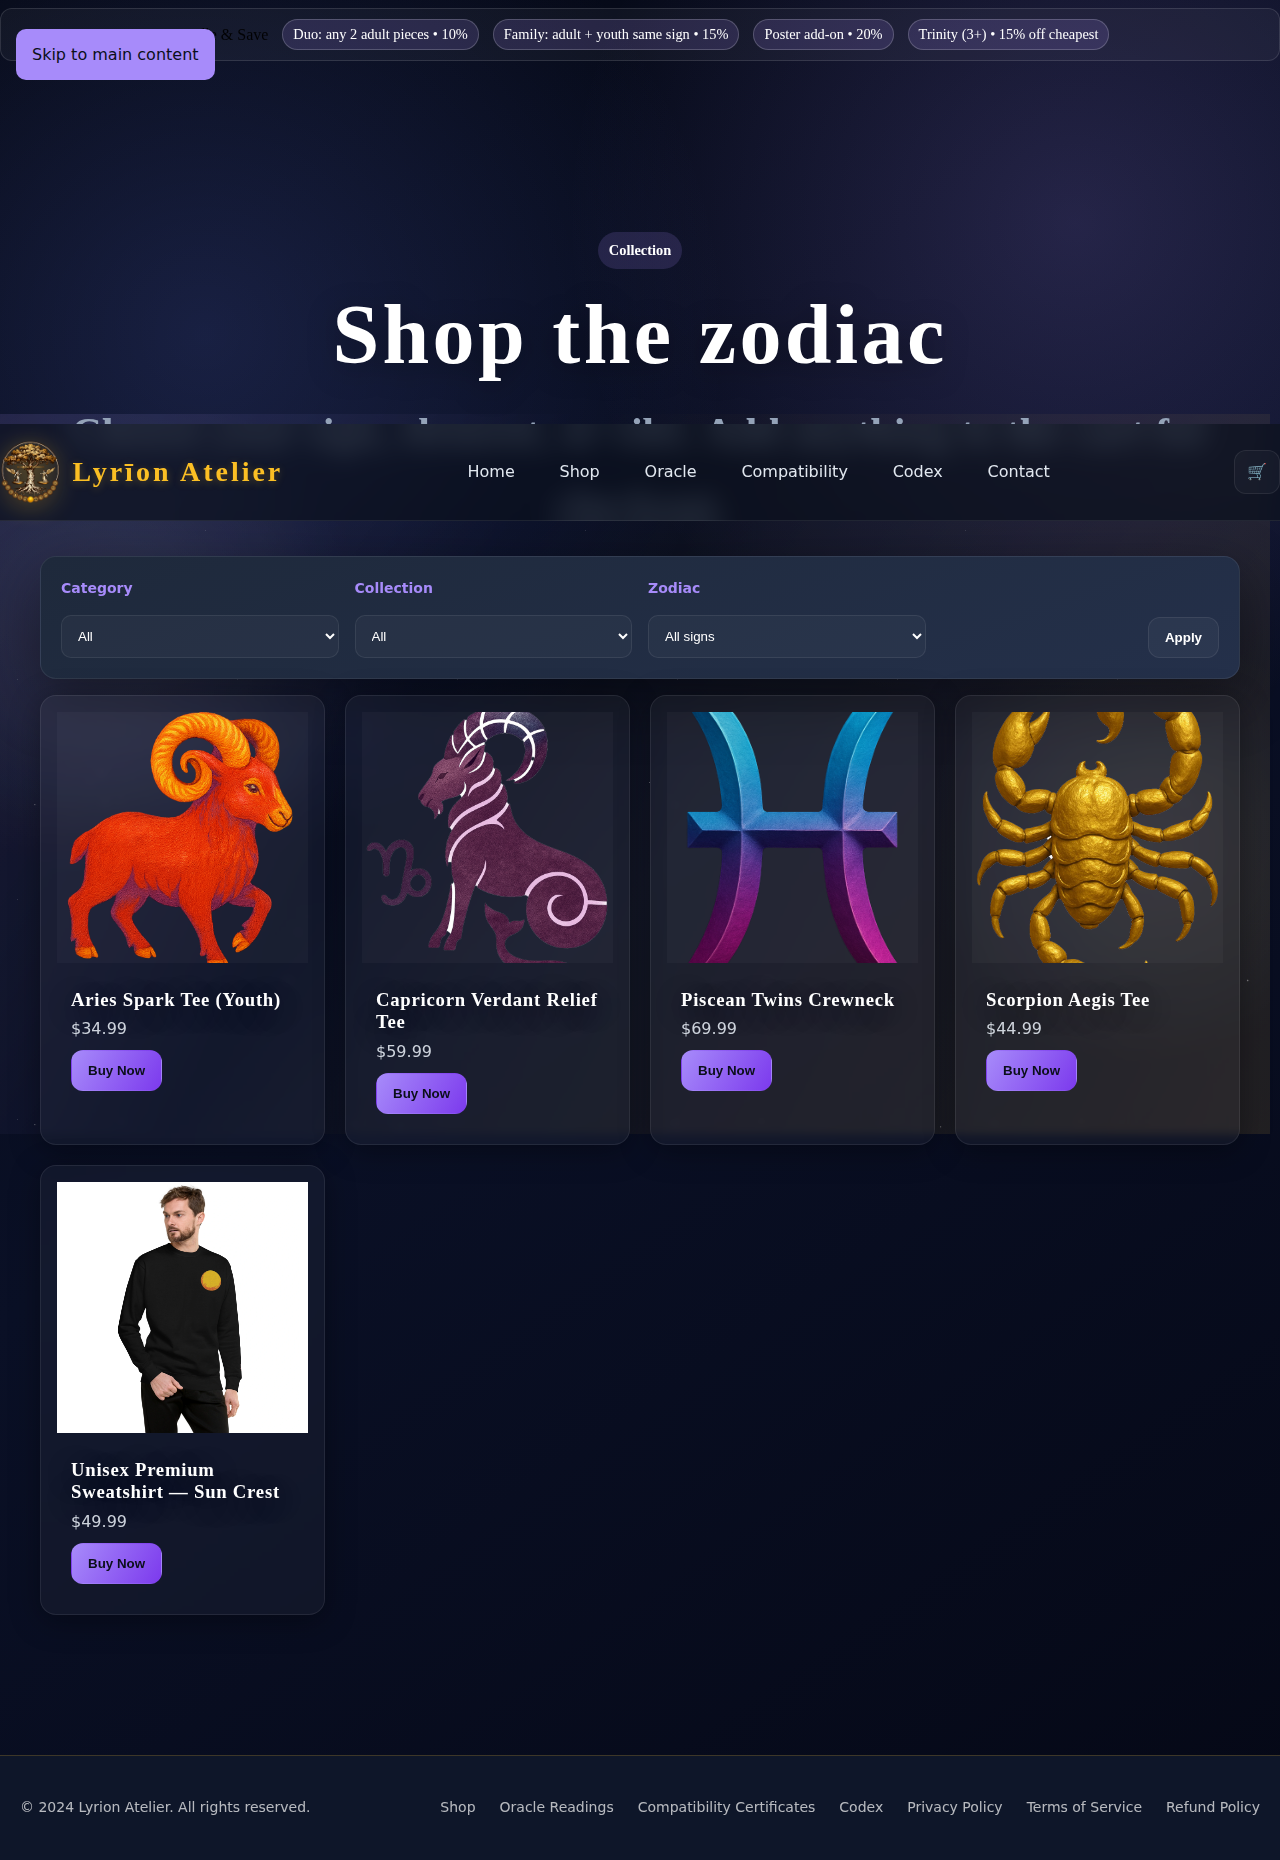
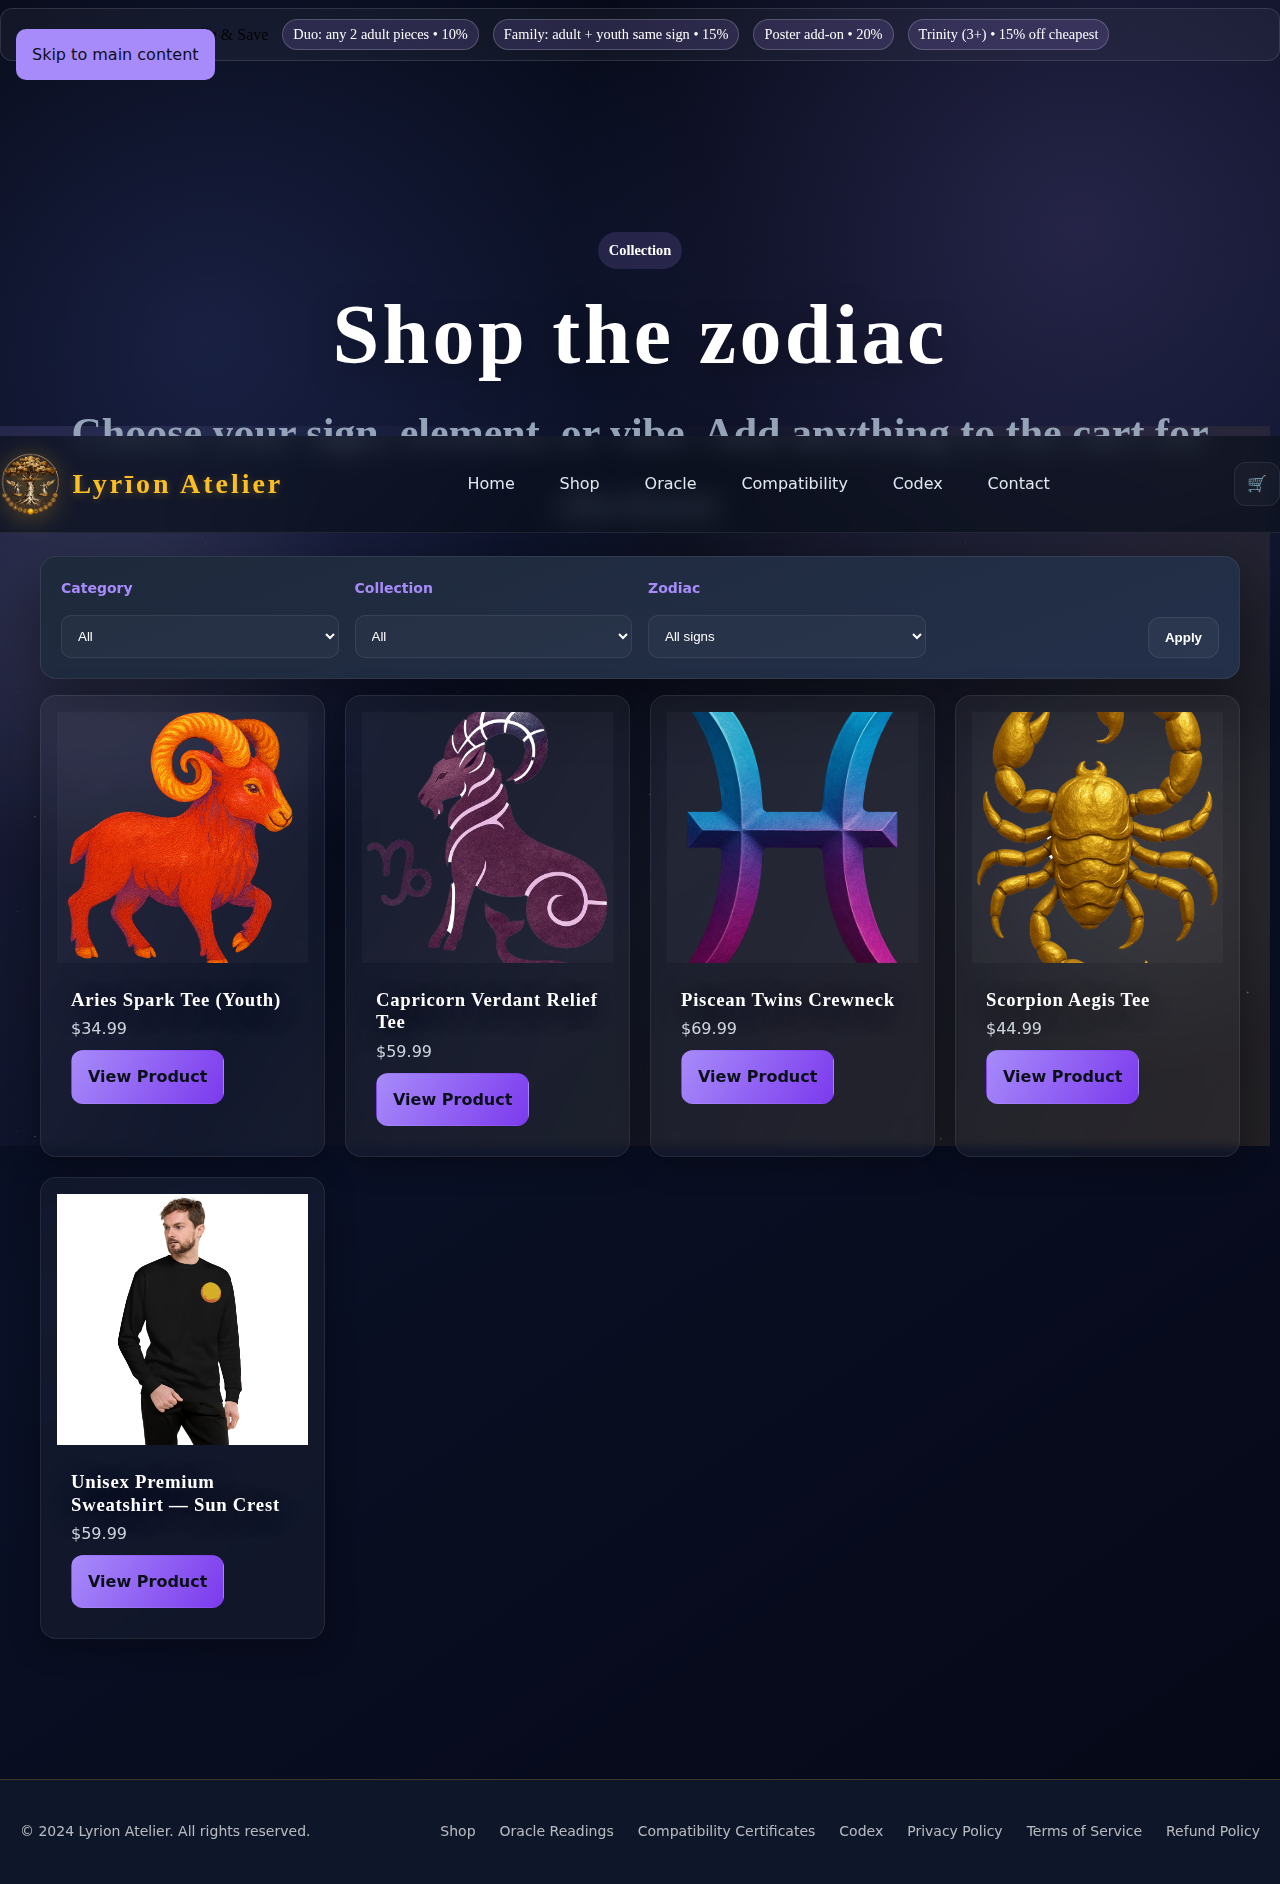
fix: route shop ctas to product detail

diff --git a/tests/product-detail.spec.ts b/tests/product-detail.spec.ts
@@ -6,7 +6,7 @@ import url from 'url';
 
 const PORT = 4175;
 const ROOT = path.resolve(__dirname, '..');
-const SUN_CREST_2XL = '69455454069045';
+const SWEATSHIRT_2XL_SKU = 'LA-SW-UNISEX-2XL';
 
 const MIME: Record<string, string> = {
   '.html': 'text/html',
@@ -31,7 +31,7 @@ function startServer(): Promise<http.Server> {
 
       if (pathname === '/') pathname = '/index.html';
       if (pathname === '/shop') pathname = '/shop.html';
-      if (/^\/shop\/[^/]+/.test(pathname)) pathname = '/shop-product.html';
+      if (/^\/shop\/[^/]+/.test(pathname)) pathname = '/product.html';
 
       const filePath = path.join(ROOT, pathname.replace(/^\//, ''));
       if (!filePath.startsWith(ROOT)) {
@@ -76,14 +76,15 @@ test.describe('product detail page', () => {
 
     await page.goto(`http://localhost:${PORT}/shop/aries-spark-youth-tee`, { waitUntil: 'networkidle' });
 
-    await expect(page.locator('#product-title')).toHaveText(/Aries Spark Tee/i);
+    await expect(page.locator('#product-name')).toHaveText(/Aries Spark Tee/i);
     await expect(page.locator('#product-description')).toContainText(/Ignition energy/i);
     await expect(page.locator('#product-price')).toContainText('$34.99');
 
-    const sizeOptions = await page.locator('#product-sizes .pill').allInnerTexts();
+    const sizeOptions = await page.locator('#size-select option').allInnerTexts();
     expect(sizeOptions).toContain('S');
 
-    const imgWidth = await page.locator('#product-image').evaluate((img) => (img as HTMLImageElement).naturalWidth);
+    await page.waitForSelector('#product-gallery img');
+    const imgWidth = await page.locator('#product-gallery img').first().evaluate((img) => (img as HTMLImageElement).naturalWidth);
     expect(imgWidth).toBeGreaterThan(50);
 
     await page.screenshot({ path: 'product-detail-pass.png', fullPage: true });
@@ -98,23 +99,29 @@ test.describe('product detail page', () => {
     );
 
     let checkoutPayload: any = null;
-    await page.route('**/.netlify/functions/checkout', (route) => {
+    await page.route('**/.netlify/functions/create-checkout-session', (route) => {
       checkoutPayload = route.request().postDataJSON();
-      route.fulfill({ status: 200, contentType: 'application/json', body: JSON.stringify({}) });
+      route.fulfill({
+        status: 200,
+        contentType: 'application/json',
+        body: JSON.stringify({ skipRedirect: true })
+      });
     });
 
     await page.goto(`http://localhost:${PORT}/shop/lyrion-premium-sweatshirt`, { waitUntil: 'networkidle' });
 
-    const sizeButtons = page.locator('#product-sizes button');
-    await expect(sizeButtons).toHaveCount(5);
-    await expect(page.locator('#buy-now-btn')).toBeEnabled();
+    const sizeSelect = page.locator('#size-select');
+    await expect(sizeSelect).toHaveCount(1);
 
-    await sizeButtons.filter({ hasText: '2XL' }).click();
-    await page.click('#buy-now-btn');
+    await sizeSelect.selectOption({ label: '2XL' });
+    await page.click('#add-to-cart-btn');
     await page.waitForTimeout(200);
 
-    expect(checkoutPayload?.items?.[0]?.sku).toBe(SUN_CREST_2XL);
-    expect(checkoutPayload?.items?.[0]?.qty || checkoutPayload?.items?.[0]?.quantity).toBe(1);
+    const lineItem = checkoutPayload?.lineItems?.[0];
+    const meta = lineItem?.price_data?.product_data?.metadata;
+    expect(meta?.sku).toBe(SWEATSHIRT_2XL_SKU);
+    expect(meta?.size).toBe('2XL');
+    expect(lineItem?.price_data?.unit_amount).toBe(5999);
 
     await page.screenshot({ path: 'shop-product-sun-crest.png', fullPage: true });
   });

diff --git a/js/shop-checkout.js b/js/shop-checkout.js
@@ -1,7 +1,22 @@
 console.log('Shop checkout script loaded');
 
 document.addEventListener('click', async function(e) {
-  const button = e.target.closest('.product-buy-btn, .add-to-cart-btn');
+  const buyLink = e.target.closest('.product-buy-btn');
+  if (buyLink) {
+    const cleanSlug = (raw = '') =>
+      raw
+        .replace(/^\/+/, '')
+        .replace(/^shop\//, '')
+        .replace(/\.html$/, '');
+    const href = buyLink.getAttribute('href');
+    const productSlug = buyLink.getAttribute('data-slug') || buyLink.closest('[data-slug]')?.dataset.slug || '';
+    const slugFragment = cleanSlug(productSlug);
+    const target = href || (slugFragment ? `/shop/${slugFragment}.html` : null);
+    if (target) window.location.href = target;
+    return;
+  }
+
+  const button = e.target.closest('.add-to-cart-btn');
   if (!button) return;
 
   e.preventDefault();
@@ -9,9 +24,8 @@ document.addEventListener('click', async function(e) {
   const productName = button.getAttribute('data-name');
   const productPrice = button.getAttribute('data-price');
   const variantId = button.getAttribute('data-variant-id');
-  const productSlug = button.getAttribute('data-slug') || button.closest('[data-slug]')?.dataset.slug || '';
   
-  console.log('Buy button clicked:', productName);
+  console.log('Add to cart clicked:', productName);
   
   // Show loading state
   const originalText = button.textContent;
@@ -19,12 +33,6 @@ document.addEventListener('click', async function(e) {
   button.disabled = true;
   
   if (!variantId) {
-    const slugFragment = productSlug ? productSlug.replace(/^\/+/, '').replace(/^shop\//, '') : '';
-    const target = productSlug ? `/shop/${slugFragment}` : null;
-    if (target) {
-      window.location.href = target;
-      return;
-    }
     button.textContent = originalText;
     button.disabled = false;
     return;

diff --git a/js/product-detail.js b/js/product-detail.js
@@ -6,10 +6,13 @@ const CHECKOUT_ENDPOINT = '/.netlify/functions/create-checkout-session';
 const $ = (sel) => document.querySelector(sel);
 
 function getSlug() {
-  const parts = location.pathname.split('/').filter(Boolean);
-  if (parts[0] === 'shop' && parts[1]) return decodeURIComponent(parts[1]);
+  const normalize = (val) => (val || '').replace(/\.html$/i, '');
   const params = new URLSearchParams(location.search);
-  return params.get('slug') || null;
+  const fromQuery = params.get('slug');
+  if (fromQuery) return normalize(fromQuery);
+  const parts = location.pathname.split('/').filter(Boolean);
+  if (parts[0] === 'shop' && parts[1]) return decodeURIComponent(normalize(parts[1]));
+  return null;
 }
 
 async function loadCatalog() {
@@ -78,6 +81,13 @@ async function startCheckout(variant, product, selection, btnEl = $('#add-to-car
   }
   const color = selection.color ? ` • ${selection.color}` : '';
   const size = selection.size ? ` • ${selection.size}` : '';
+  const metadata = {
+    sku: variant.sku || '',
+    size: selection.size || '',
+    color: selection.color || '',
+    product: product.title || ''
+  };
+  if (product.slug) metadata.slug = product.slug;
   const lineItems = [
     {
       quantity: 1,
@@ -86,9 +96,7 @@ async function startCheckout(variant, product, selection, btnEl = $('#add-to-car
         unit_amount: unitAmount,
         product_data: {
           name: `${product.title}${color}${size}`,
-          metadata: {
-            sku: variant.sku || ''
-          }
+          metadata
         }
       }
     }
@@ -106,6 +114,7 @@ async function startCheckout(variant, product, selection, btnEl = $('#add-to-car
       })
     });
     const data = await res.json();
+    if (data?.skipRedirect === true) return;
     if (data?.url) {
       location.href = data.url;
       return;

diff --git a/js/shop-grid.js b/js/shop-grid.js
@@ -52,7 +52,7 @@ function renderCard(product) {
   const priceNum = resolvePrice(variant) ?? resolvePrice(product);
   const imgSrc = pickImage(product, __IMAGE_MAP || {});
   const slug = product.slug || slugify(product.title || product.name || '');
-  const viewUrl = `/shop/${slug}`;
+  const viewUrl = `/shop/${slug}.html`;
 
   const card = document.createElement('article');
   card.className = 'product-card';
@@ -87,20 +87,12 @@ function renderCard(product) {
   view.textContent = 'View';
   view.dataset.action = 'view';
 
-  const buy = document.createElement('button');
-  buy.type = 'button';
+  const buy = document.createElement('a');
   buy.className = 'btn btn-primary product-buy-btn';
-  buy.textContent = 'Buy Now';
+  buy.textContent = 'View Product';
+  buy.href = viewUrl;
   buy.dataset.name = title;
-  if (Number.isFinite(priceNum)) buy.dataset.price = String(priceNum);
-  const variantId = variant?.variant_id || variant?.id || product.variantId;
-  if (variantId) buy.dataset.variantId = variantId;
-  const hasVariants = Array.isArray(product.variants) && product.variants.length > 0;
-  const inStock = hasVariants ? !!(variant && (variant.inStock ?? true) && (variant.state?.published ?? true) && (variant.state?.ready ?? true)) : true;
-  if (!inStock || !Number.isFinite(priceNum)) {
-    buy.disabled = true;
-    buy.title = 'Unavailable';
-  }
+  buy.dataset.slug = slug;
   buy.addEventListener('click', (e) => e.stopPropagation());
 
   actions.append(view, buy);

diff --git a/js/shop-page.js b/js/shop-page.js
@@ -223,7 +223,7 @@ import { formatPrice } from './price-utils.js';
 
   const createCard = (p) => {
     const slug = p.slug || slugify(p.title || p.name || '');
-    const viewUrl = `/shop/${slug}`;
+    const viewUrl = `/shop/${slug}.html`;
     const variant = p.defaultVariant || pickVariant(p);
     const hasPriceData = Number.isFinite(p.price) || Number.isFinite(p.priceCents) || !!p.priceLabel;
     const basePrice = hasPriceData ? null : normalizePrice(p);
@@ -267,15 +267,13 @@ import { formatPrice } from './price-utils.js';
 
     const actions = document.createElement('div');
     actions.className = 'product-card__actions';
-    const buyBtn = document.createElement('button');
-    buyBtn.type = 'button';
+    const buyBtn = document.createElement('a');
     buyBtn.className = 'btn btn-primary product-buy-btn';
-    buyBtn.textContent = 'Buy Now';
-    buyBtn.dataset.action = 'buy';
+    buyBtn.textContent = 'View Product';
+    buyBtn.href = viewUrl;
+    buyBtn.dataset.action = 'view';
     buyBtn.dataset.slug = slug;
     buyBtn.dataset.name = p.title || p.name || 'Celestial Piece';
-    if (Number.isFinite(priceValue)) buyBtn.dataset.price = String(priceValue);
-    if (p.firstVariantId) buyBtn.dataset.variantId = p.firstVariantId;
 
     actions.append(buyBtn);
     body.append(heading, priceEl, actions);

diff --git a/tests/shop.spec.ts b/tests/shop.spec.ts
@@ -32,7 +32,7 @@ function startServer(): Promise<http.Server> {
 
       if (pathname === '/') pathname = '/index.html';
       if (pathname === '/shop') pathname = '/shop.html';
-      if (/^\/shop\/[^/]+/.test(pathname)) pathname = '/shop-product.html';
+      if (/^\/shop\/[^/]+/.test(pathname)) pathname = '/product.html';
 
       if (pathname.startsWith('/netlify/functions/printful-sync')) {
         try {
@@ -124,7 +124,8 @@ test.describe('shop smoke test', () => {
       await expect(firstCard.locator('.product-card__title')).toBeVisible();
       const buyButtons = firstCard.locator('.product-buy-btn');
       await expect(buyButtons).toHaveCount(1);
-      await expect(buyButtons.first()).toBeVisible();
+      await expect(buyButtons.first()).toHaveText(/view product/i);
+      await expect(buyButtons.first()).toHaveAttribute('href', /shop\/.+\.html$/);
       const widths = await cards.locator('img').evaluateAll((imgs) =>
         imgs.map((img) => (img as HTMLImageElement).naturalWidth)
       );

diff --git a/tests/shop-fallback.spec.ts b/tests/shop-fallback.spec.ts
@@ -33,7 +33,7 @@ function startServer(): Promise<http.Server> {
 
       if (pathname === '/') pathname = '/index.html';
       if (pathname === '/shop') pathname = '/shop.html';
-      if (/^\/shop\/[^/]+/.test(pathname)) pathname = '/shop-product.html';
+      if (/^\/shop\/[^/]+/.test(pathname)) pathname = '/product.html';
 
       if (pathname.startsWith('/netlify/functions/printful-sync')) {
         try {
@@ -144,7 +144,7 @@ test.describe('shop fallback art', () => {
     expect(srcs[0]).toContain(`http://localhost:${PORT}`);
     expect(srcs[1]).toContain('/assets/catalog/placeholder.webp');
 
-    const buyButtons = page.locator('[data-shop-grid] .product-card .product-buy-btn', { hasText: /buy now/i });
+    const buyButtons = page.locator('[data-shop-grid] .product-card .product-buy-btn', { hasText: /view product/i });
     await expect(buyButtons).toHaveCount(2);
   });
 });
